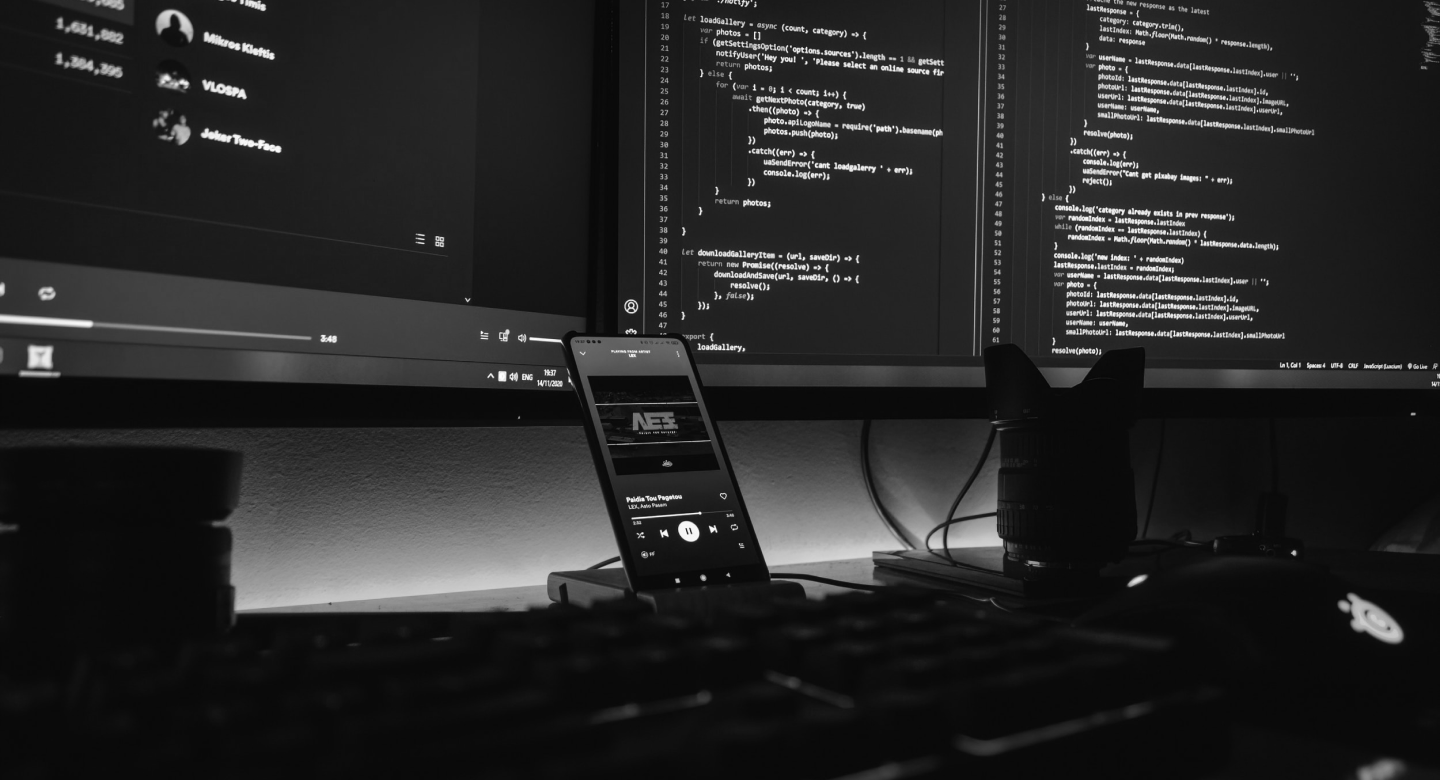
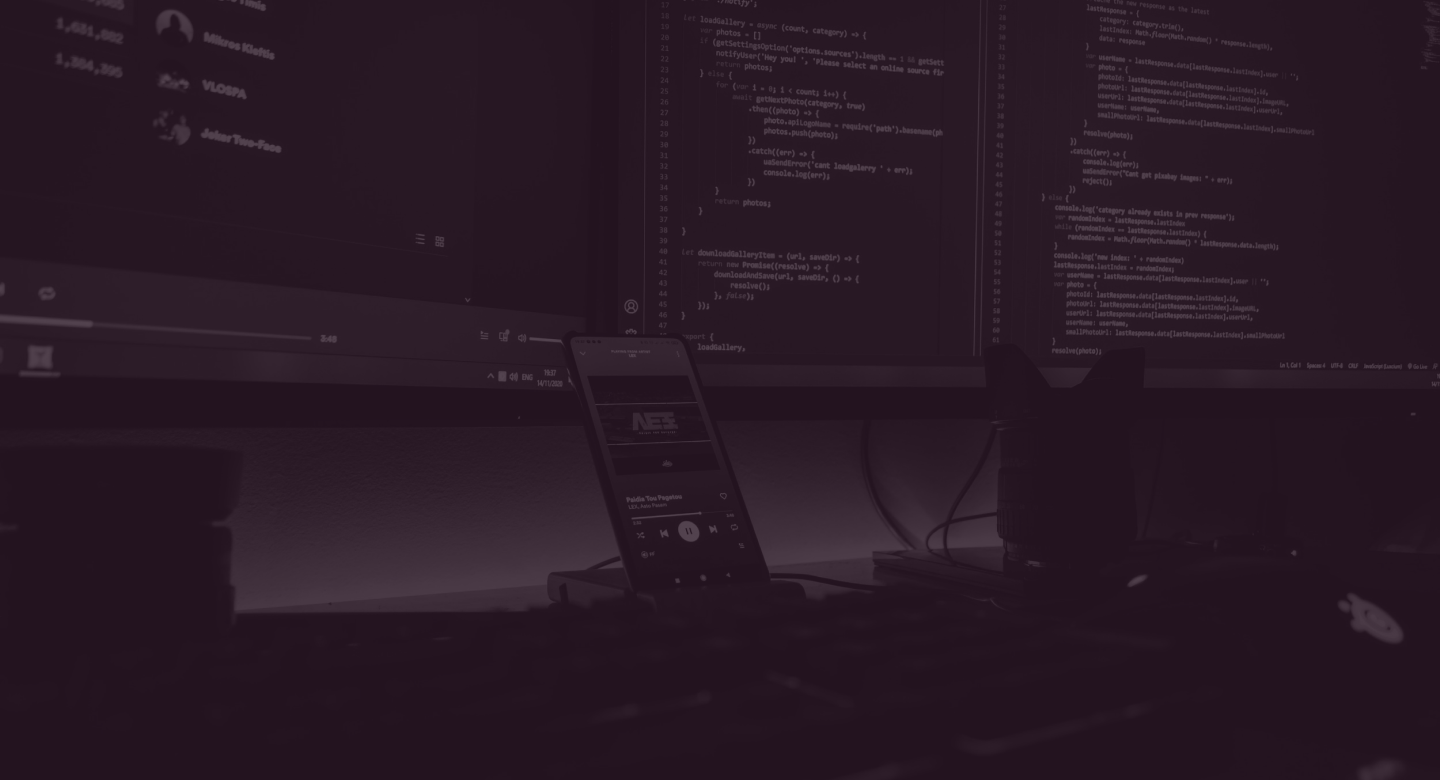
finish hero section

diff --git a/src/components/Menu/index.js b/src/components/Menu/index.js
@@ -4,10 +4,10 @@ export default function Menu() {
   return (
     
         <ul className='flex items-center text-xl'>
-            <li className='mx-4'><a className='cursor-pointer hover:text-zinc-400 duration-200'>Home</a></li>
-            <li className='mx-4'><a className='cursor-pointer hover:text-zinc-400 duration-200'>Sobre</a></li>
-            <li className='mx-4'><a className='cursor-pointer hover:text-zinc-400 duration-200'>Portfólio</a></li>
-            <li className='mx-4'><a className='cursor-pointer hover:text-zinc-400 duration-200'>Contato</a></li>
+            <li className='mx-4'><a className='cursor-pointer hover:text-zinc-400 duration-200' href='https://jessicamottadev.com'>Home</a></li>
+            <li className='mx-4'><a className='cursor-pointer hover:text-zinc-400 duration-200' href='https://jessicamottadev.com'>Sobre</a></li>
+            <li className='mx-4'><a className='cursor-pointer hover:text-zinc-400 duration-200' href='https://jessicamottadev.com'>Portfólio</a></li>
+            <li className='mx-4'><a className='cursor-pointer hover:text-zinc-400 duration-200' href='https://jessicamottadev.com'>Contato</a></li>
         </ul>
 
   )

diff --git a/src/components/Hero/index.js b/src/components/Hero/index.js
@@ -2,9 +2,9 @@ import React from "react";
 
 export default function index() {
   return (
-    <section className="bg-hero-pattern bg-cover bg-neutral-700 h-screen">
-      <h1 className="text-misty-rose flex justify-center pt-20 text-5xl">Desenvolvedora Front-end</h1>
-      <h2 className="text-misty-rose flex justify-center pt-20 text-3xl">Transformo seus projetos em aplicações web ou mobile!</h2>
+    <section className="bg-hero-pattern bg-blend-luminosity bg-cover h-screen text-white text-center py-32 m-auto">
+      <h1 className="flex justify-center text-6xl font-bold w-2/3 m-auto">Oi, meu nome é Jéssica, sou Desenvolvedora Front-end</h1>
+      <h2 className="flex justify-center pt-20 text-4xl w-1/2 m-auto">E transformo seus projetos em aplicações reais, web ou mobile!</h2>
     </section>
   );
 }

diff --git a/src/global.css b/src/global.css
@@ -1,3 +1,5 @@
 @tailwind base;
 @tailwind components;
 @tailwind utilities;
+
+
